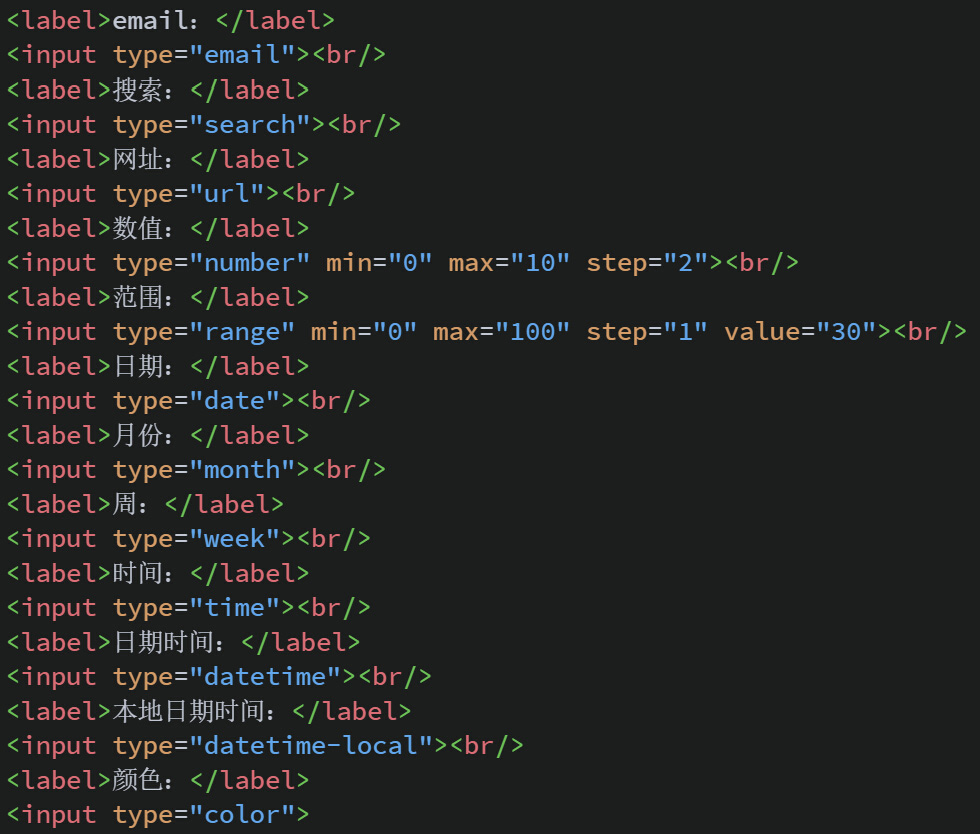
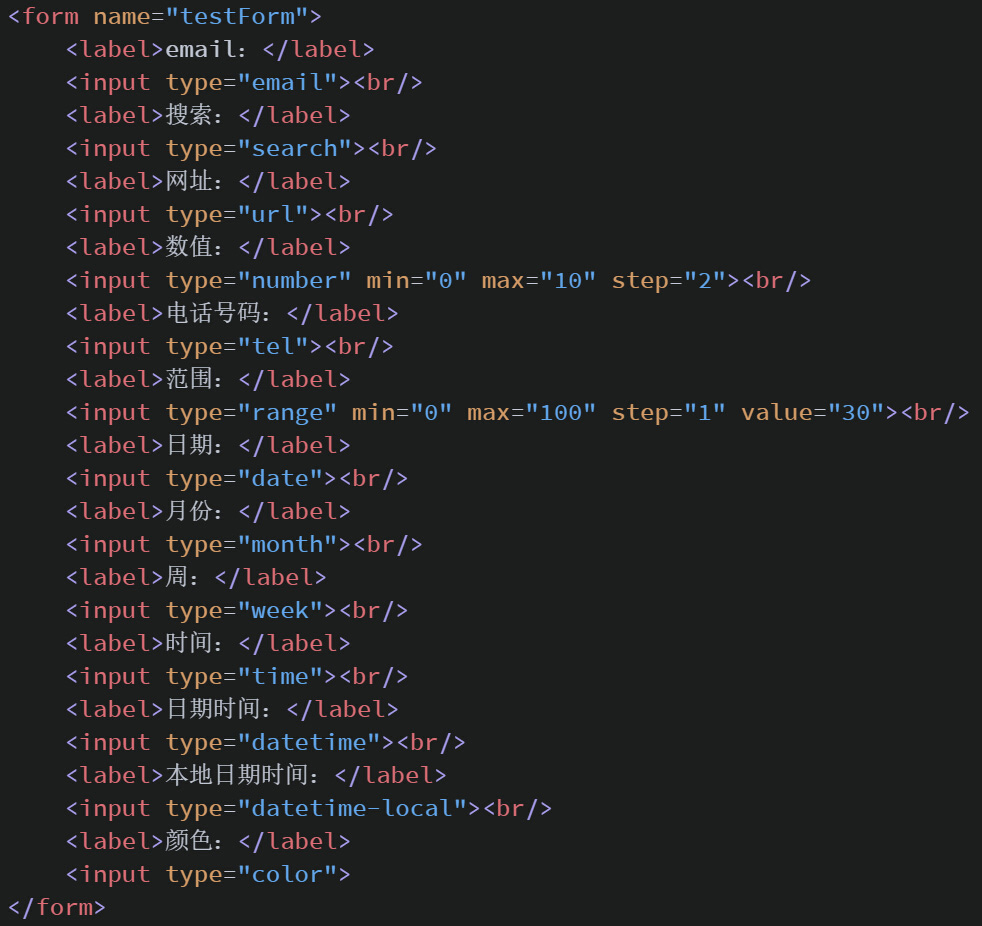
修改了课件中部分表单类型的设置错误，并修改了截图

Changed region(s): [[0.0, 0.0, 0.9796, 0.9976], [0.7347, 0.3741, 0.9796, 0.4053]]

diff --git a/html-pages/html/html-08.html b/html-pages/html/html-08.html
@@ -4,29 +4,43 @@
         <p>在HTML5标准中，为了提升用户体验，还为“type”属性增加了以下属性值：</p>
         <dl class="attrExplain">
             <dt>email<suph5></suph5></dt>
-                <dd>用于应该包含“e-mail”地址的输入框</dd>
+            <dd>用于应该包含“e-mail”地址的输入框</dd>
+
             <dt>url<suph5></suph5></dt>
-                <dd>用于应该包含“URL”地址的输入框</dd>
+            <dd>用于应该包含“URL”地址的输入框</dd>
+
             <dt>search<suph5></suph5></dt>
-                <dd>用于应该“搜索内容”的输入框</dd>
+            <dd>用于应该“搜索内容”的输入框</dd>
+
             <dt>number<suph5></suph5></dt>
-                <dd>用于应该包含“数值”的输入控件</dd>
+            <dd>用于应该包含“数值”的输入控件</dd>
+
+            <dt>tel<suph5></suph5></dt>
+            <dd>规定显示的类型为“电话号码”的输入框</dd>
+
             <dt>range<suph5></suph5></dt>
-                <dd>规定显示的类型为“数值选择范围”选择控件</dd>
+            <dd>规定显示的类型为“数值选择范围”选择控件</dd>
+
             <dt>date<suph5></suph5></dt>
-                <dd>规定显示的类型为“日期”选择控件</dd>
+            <dd>规定显示的类型为“日期”选择控件</dd>
+
             <dt>month<suph5></suph5></dt>
-                <dd>规定显示的类型为“月份”选择控件</dd>
+            <dd>规定显示的类型为“月份”选择控件</dd>
+
             <dt>week<suph5></suph5></dt>
-                <dd>规定显示的类型为“周”选择控件</dd>
+            <dd>规定显示的类型为“周”选择控件</dd>
+
             <dt>time<suph5></suph5></dt>
-                <dd>规定显示的类型为“时间”选择控件</dd>
+            <dd>规定显示的类型为“时间”选择控件</dd>
+
             <dt>datetime<suph5></suph5></dt>
-                <dd>规定显示的类型为“日期时间”选择控件</dd>
+            <dd>规定显示的类型为“日期时间”选择控件</dd>
+
             <dt>datetime-local<suph5></suph5></dt>
-                <dd>规定显示的类型为“本地日期时间”选择控件</dd>
+            <dd>规定显示的类型为“本地日期时间”选择控件</dd>
+
             <dt>color<suph5></suph5></dt>
-                <dd>规定显示的类型为“颜色”选择控件</dd>
+            <dd>规定显示的类型为“颜色”选择控件</dd>
         </dl>
         <p>由于在制定HTML5标准时，无论移动端的Web浏览还是移动端的应用都已经开始逐渐的成为一种新的主流浏览方式了，所以以上这些属性大多在移动端有比在PC端更好的表现。</p>
         <code class="w60p mt10">
@@ -52,14 +66,15 @@
 	    <p>2. url</p>
 	    <p>3. search</p>
 	    <p>4. number</p>
-	    <p>5. range</p>
-	    <p>6. date</p>
-	    <p>7. month</p>
-	    <p>8. week</p>
-	    <p>9. time</p>
-	    <p>10.datetime</p>
-	    <p>11.datetime-local</p>
-	    <p>12.color</p>
+	    <p>5. tel</p>
+	    <p>6. range</p>
+	    <p>7. date</p>
+	    <p>8. month</p>
+	    <p>9. week</p>
+	    <p>10.time</p>
+	    <p>11.datetime</p>
+	    <p>12.datetime-local</p>
+	    <p>13.color</p>
 	</section>
     <section>
         <h3>&lt;datalist&gt;<suph5></suph5>下拉列表</h3>

diff --git a/html-pages/html/codeEffect/code-19.html b/html-pages/html/codeEffect/code-19.html
@@ -16,7 +16,7 @@
     </style>
 </head>
 <body>
-    <form name="testForm" action="">
+    <form name="testForm">
         <label>email：</label>
         <input type="email"><br/>
         <label>搜索：</label>
@@ -25,6 +25,8 @@
         <input type="url"><br/>
         <label>数值：</label>
         <input type="number" min="0" max="10" step="2"><br/>
+        <label>电话号码：</label>
+        <input type="tel"><br/>
         <label>范围：</label>
         <input type="range" min="0" max="100" step="1" value="30"><br/>
         <label>日期：</label>

diff --git a/html-pages/html/codeEffect/code-38.html b/html-pages/html/codeEffect/code-38.html
@@ -22,7 +22,7 @@
         <input type="text" value="aulence" disabled="disabled">
         <br />
         <label>姓名：</label>
-        <input type="email" value="欧冷斯">
+        <input type="text" value="欧冷斯">
         <br />
         <label for="sport">水果：</label><select disabled="disabled">
             <option value="0">苹果</option>

diff --git a/html-pages/html/codeEffect/code-37.html b/html-pages/html/codeEffect/code-37.html
@@ -19,7 +19,7 @@
         <input type="text" value="aulence" readonly="readonly">
         <br />
         <label>姓名：</label>
-        <input type="email" value="欧冷斯" readonly="readonly">
+        <input type="text" value="欧冷斯" readonly="readonly">
     </form>
 </body>
 </html>
